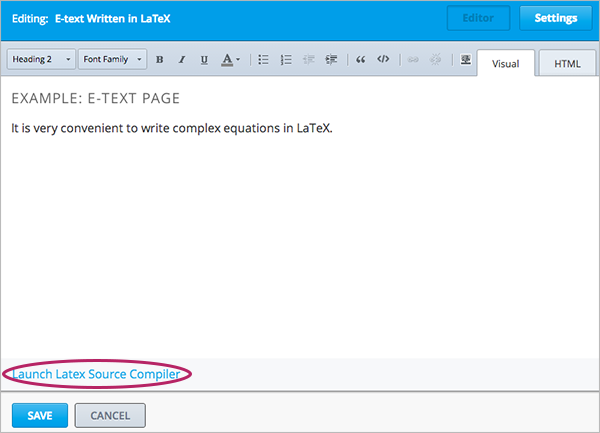
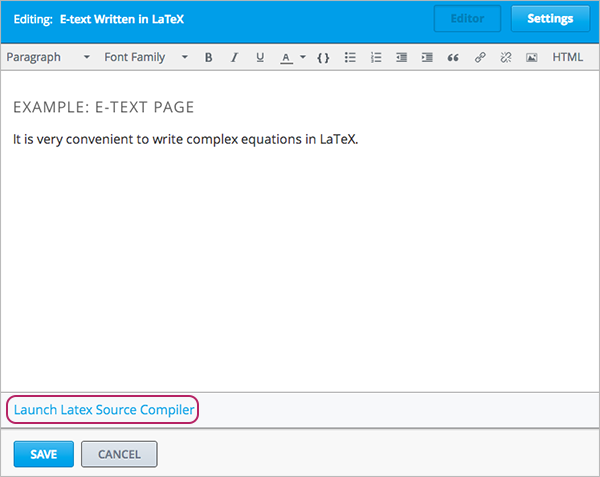
Documentation for HTML editor upgrade
STUD-1428

diff --git a/docs/en_us/course_authors/source/creating_content/create_html_component.rst b/docs/en_us/course_authors/source/creating_content/create_html_component.rst
@@ -9,11 +9,11 @@ Working with HTML Components
 HTML Component Overview
 ***********************
 
-HTML components are the most basic building blocks of your course. You use HTML components to add and format text, links, images, and more. 
+HTML components are the basic building blocks of your course content. You use HTML components to add and format text, links, images, and more. 
 
 For more information, see the following topics:
 
-* :ref:`The User Interface`
+* :ref:`The HTML Editor`
 * :ref:`Create an HTML Component`
 * :ref:`Add a Link in an HTML Component`
 * :ref:`Add an Image to an HTML Component`
@@ -23,48 +23,60 @@ For more information, see the following topics:
 
 To add an instant hangout to an HTML component, see :ref:`Using an Instant Hangout in Your Course`.
 
-.. _The User Interface:
+.. _The HTML Editor:
 
 *****************************************
-The HTML Component User Interface
+The HTML Component Editor
 *****************************************
 
-When you create a new HTML component, you work with the HTML component editor. The editor has two views: **Visual view** and **HTML view.** To switch between Visual view and HTML view, click the tab in the upper-right corner of the component editor.
+When you create a new HTML component, you work with the HTML editor:
 
-.. image:: ../Images/HTMLEditorTabs.png
- :alt: Image of the HTML component editor, with the Visual and HTML tabs circled
+.. image:: ../Images/HTMLEditor.png
+ :alt: Image of the HTML component editor
 
-- **Visual view** provides a “what you see is what you get” (WYSIWYG) editor that allows you to format text by clicking the formatting buttons at the top of the editor. By default, every HTML component opens in Visual view.
+The editor provides a “what you see is what you get” (WYSIWYG) interface that allows you to format text by clicking the formatting buttons at the top of the editor. 
 
-  Visual view includes the following formatting buttons.
+.. note:: The editor attempts to ensure the underlying HTML code is valid; for example, if you do not close a div tag, it inserts one at the end of the paragraph. You can see this by opening the HTML code editor, as described below.
 
-  .. image:: ../Images/HTML_VisualView_Toolbar.png
-    :alt: Image of the HTML visual editor, with callouts for formatting buttons
+The following image shows call-outs for the editing options and is followed by descriptions.
 
-  #. Select a formatting style, such as heading 1, heading 2, or paragraph.
-  #. Format text in bold.
-  #. Format text in italics.
-  #. Underline text.
-  #. Create a bulleted list.
-  #. Create a numbered list.
-  #. Decrease the indent.
-  #. Indent text.
-  #. Format text as a blockquote.
-  #. Format text as code (i.e., in Courier font).
-  #. Create a link.
-  #. Delete the current link.
+.. image:: ../Images/HTML_VisualView_Toolbar.png
+  :alt: Image of the HTML editor, with call-outs for formatting buttons
 
-  Visual view shows your content the way it will appear in the LMS. The following is the LMS rendition of the HTML component above.
+#. Choose a formatting style for the selected paragraph, such as heading 1, heading 2, or paragraph.
+#. Choose a font family for selected text, such as Arial, Courier New, or Times New Roman.
+#. Format selected text in bold.
+#. Format selected text in italics.
+#. Underline selected text.
+#. Apply a color to the selected text.
+#. Format selected text as code.
+#. Create a bulleted list.
+#. Create a numbered list.
+#. Decrease and increased the indentation of the selected paragraph.
+#. Format the selected paragraph as a blockquote.
+#. Create a link from the selected text. See :ref:`Add a Link in an HTML Component`.
+#. Delete the current link.
+#. Insert an image at the cursor. See :ref:`Add an Image to an HTML Component`.
+#. Work with HTML source code, described below.
 
-  .. image:: ../Images/HTMLComponent_VisualView_LMS.png
-   :alt: Image of the visual view of the HTML component
 
-- **HTML view** allows you to edit HTML code directly.
+.. _Work with HTML code:
 
-  .. image:: ../Images/HTML_HTMLView.png
-   :alt: Image of the HTML code view of the HTML component
+============================
+Work with HTML code
+============================
 
-  .. note:: If you're in HTML view, you can always switch to Visual view to make sure your content looks the way you expect. For example, we recommend that you do this if you add an image or a link to an HTML component.
+To work with HTML source code for the component, click **HTML**  in the editor toolbar. The HTML source code editor opens:
+
+.. image:: ../Images/HTML_source_code.png
+ :alt: Image of the HTML source code editor
+
+Edit the HTML code as needed.  
+
+Click **OK** to apply your changes to the HTML editor and close the source code.
+
+.. warning:: Clicking **OK** in the source code editor does not save your changes to the HTML component.  You return to the component editor, where your changes are applied.  You must click **Save** to save your changes and close the component. If you click **Cancel**, the changes you made in the HTML source code are lost.
+
 
 .. _Create an HTML Component:
 
@@ -88,14 +100,14 @@ To create an HTML component:
   .. image:: ../Images/HTMLComponent_Edit.png
    :alt: Image of an empty HTML component
 
-3. In the empty component, click **Edit**.
+3. In the component, click **Edit**.
 
-   The HTML component editor opens in Visual view.
+   The HTML component editor opens.
 
-  .. image:: ../Images/HTMLEditor.png
-   :alt: Image of the HTML component Visual view
+  .. image:: ../Images/HTMLEditor_empty.png
+   :alt: Image of the HTML component editor
 
-4. Enter the text and formatting that you want, either by using the formatting buttons in Visual view or by manually adding HTML tags in HTML view.
+4. Enter and format your content. You can :ref:`Work with HTML code` if needed.
 
 5. Enter a display name (the name that you want students to see). To do this, click **Settings** in the upper-right corner of the component editor, and then enter text in the **Display Name** field.
 
@@ -103,7 +115,7 @@ To create an HTML component:
 
 6. Click **Save** to save the HTML component.
 
-You can also add links and images to HTML components. Or, you can import LaTeX code. For more information, see:
+You can also:
 
 * :ref:`Add a Link in an HTML Component`
 * :ref:`Add an Image to an HTML Component`
@@ -115,12 +127,12 @@ You can also add links and images to HTML components. Or, you can import LaTeX c
 Add a Link in an HTML Component
 ***********************************
 
-To add a link to a website, course unit, or file in an HTML component, you'll work with the **Insert/Edit Link** dialog box.
+To add a link to a website, course unit, or file in an HTML component, you'll work with the **Insert link** dialog box.
 
 .. image:: ../Images/HTML_Insert-EditLink_DBox.png
- :alt: Image of the Insert/Edit Link dialog box
+ :alt: Image of the Insert link dialog box
 
-For more information, see:
+You can:
 
 * :ref:`Add a Link to a Website`
 * :ref:`Add a Link to a Course Unit`
@@ -138,14 +150,14 @@ To add a link to a website:
 
 #. Click the link icon in the toolbar.
 
-#. In the **Insert/Edit Link** dialog box, enter the URL of the website that you want in the **Link URL** field.
+#. In the **Insert link** dialog box, enter the URL of the website that you want in the **URL** field.
 
    .. image:: ../Images/HTML_Insert-EditLink_Website.png
-    :alt: Image of the Insert/Edit Link dialog box
+    :alt: Image of the Insert link dialog box
 
-#. If you want the link to open in a new window, click the drop-down arrow next to the **Target** field, and then select **Open Link in a New Window**. If not, you can leave the default value.
+#. If you want the link to open in a new window, click the drop-down arrow next to the **Target** field, and then select **New Window**. If not, you can leave the default value.
 
-#. Click **Insert**.
+#. Click **OK**.
 
 #. Save the HTML component and test the link.
 
@@ -169,7 +181,7 @@ You can add a link to a course unit in an HTML component.
 
 #. Click the link icon in the toolbar.
 
-#. In the **Insert/Edit Link** dialog box, enter the following in the **Link URL** field.
+#. In the **Insert link** dialog box, enter the following in the **URL** field.
 
    ``/jump_to_id/<unit identifier>``
 
@@ -177,10 +189,10 @@ You can add a link to a course unit in an HTML component.
    identifier that you copied in step 2, and make sure to include both forward slashes (/).
 
    .. image:: ../Images/HTML_Insert-EditLink_CourseUnit.png
-    :alt: Image of the Inser/Edit Link dialog box with a link to a unit identifier
+    :alt: Image of the Insert link dialog box with a link to a unit identifier
 
 #. If you want the link to open in a new window, click the drop-down arrow next to
-   the **Target** field, and then select **Open Link in a New Window**. If not, you can leave the default value.
+   the **Target** field, and then select **New Window**. If not, you can leave the default value.
 
 #. Click **Insert**.
 
@@ -202,30 +214,25 @@ You can add a link in an HTML component to any file you've uploaded for the cour
   
   .. note:: You must use the **Embed URL** to link to the file, not the **External URL**.
 
-
-
 2. Select the text that you want to make into the link.
 
 #. Click the link icon in the toolbar.
 
-#. In the **Insert/Edit Link** dialog box, enter the following in the **Link URL** field.
+#. In the **Insert link** dialog box, enter the following in the **URL** field.
 
    ``/static/FileName.type``
 
    Make sure to include both forward slashes (/).
 
    .. image:: ../Images/HTML_Insert-EditLink_File.png
-    :alt: Image of the Inser/Edit Link dialog box with a link to a file
+    :alt: Image of the Insert link dialog box with a link to a file
 
 #. If you want the link to open in a new window, click the drop-down arrow next to
-   the **Target** field, and then select **Open Link in a New Window**. If not, you can leave the default value.
+   the **Target** field, and then select **New Window**. If not, you can leave the default value.
 
 #. Click **Insert**.
 
 #. Save the HTML component and test the link.
-
-.. note::  When you add the file link in the format ``/static/FileName.type``, then later reopen the **Insert/Edit Link** dialog box, you see that the link changes to ``/c4x/edX/Course-name/asset/FileName.type``. This URL is OK and you do not need to change it. In the HTML view, the link appears as ``/static/FileName.type``.
-
 
 .. _Add an Image to an HTML Component:
 
@@ -235,7 +242,7 @@ Add an Image to an HTML Component
 
 You can add any image that you have uploaded for the course to an HTML component. For more information about uploading images, see :ref:`Add Files to a Course`.
 
-.. note:: Review :ref:`Best Practices for Describing Images` when you add images to HTML components.
+.. note:: Review :ref:`Best Practices for Describing Images` before you add images to HTML components.
 
 To add an image, you'll need the URL of the image that you uploaded to the course. You'll then create a link to the image in the HTML component.
 
@@ -248,27 +255,29 @@ To add an image, you'll need the URL of the image that you uploaded to the cours
 
 2. Click the image icon in the toolbar.
 
-#. In the **Insert/Edit Image** dialog box, enter the following in the **Image URL** field.
+#. In the **Insert image** dialog box, enter the following in the **Source** field.
 
    ``/static/FileName.type``
 
    Make sure to include both forward slashes (/).
 
    .. image:: ../Images/HTML_Insert-Edit_Image.png
-    :alt: Image of the Insert/Edit Image dialog box with a link to a file
+    :alt: Image of the Insert image dialog box with a reference to a file
 
-4. Enter alternative text in the Image Description field. See :ref:`Best Practices for Describing Images` for more information.
+4. Enter alternative text in the **Image description** field. This text becomes the value of the ``alt`` attribute in HTML and is required for your course to be fully accessible. See :ref:`Best Practices for Describing Images` for more information.
 
-#. As needed, in the **Insert/Edit Image** dialog box, customize the image alignment, dimensions, border, and vertical and horizontal space.
+#. As needed, customize the image dimensions. Keep **Constrain proportions** checked to ensure the image keeps the same width and height proportions.
 
-#. Click **Insert**.
+#. To change the spacing and border of the image, click the **Advanced** tab. 
+
+   .. image:: ../Images/HTML_Insert-Edit_Image_Advanced.png
+    :alt: Image of the Insert image dialog box Advanced tab
+
+#. Enter the **Vertical space**, **Horizontal space**, and **Border** as needed. The values you enter are automatically added to the **Style** field.
+
+#. Click **OK** to insert the image in the HTML component.
 
 #. Save the HTML component and test the image.
-
-.. note::  When you add the image URL in the format ``/static/FileName.type``, then later reopen the **Insert/Edit Image** dialog box, you see that the URL changes to ``/c4x/edX/Course-name/asset/FileName.type``. This URL is OK and you do not need to change it. In the HTML view, the URL appears as ``/static/FileName.type``.
-
-   ``<p><img src="/static/GreatLakes.png" alt="Map of the Great Lakes" /></p>``
-
 
 
 .. _Import LaTeX Code:
@@ -302,7 +311,7 @@ To create an HTML component that contains LaTeX code:
   .. image:: ../Images/latex_component.png
    :alt: Image of the HTML component editor with the Latex compiler.
 
-4. In the componenent editor, click **Launch Latex Source Compiler**. The Latex editor opens.
+4. In the component editor, click **Launch Latex Source Compiler**. The Latex editor opens.
 
    .. image:: ../Images/HTML_LaTeXEditor.png
     :alt: Image of the HTML component editor with the Latex compiler.
@@ -311,7 +320,7 @@ To create an HTML component that contains LaTeX code:
 
 #. When you have written or uploaded the Latex code you need, click **Save & Compile to edX XML** in the lower-left corner.
 
-   The component editor closes, and the unit page opens. You can see the way your LaTeX content looks.
+   The component editor closes. You can see the way your LaTeX content looks.
 
    .. image:: ../Images/HTML_LaTeX_CompEditor.png
     :alt: Image of the LaTeX component

diff --git a/docs/en_us/course_authors/source/change_log.rst b/docs/en_us/course_authors/source/change_log.rst
@@ -14,6 +14,15 @@ Change Log
      - Expanded the :ref:`Grades` section to include a topic on interpreting the Student Answer Distribution report. 
    * - 4/7/14
      - Expanded the :ref:`Course Data`, :ref:`Enrollment`, and :ref:`Course_Staffing` sections.
+     - Change  
+   * - 4/7/14
+     - Expanded the :ref:`Course Data`, :ref:`Enrollment`, and :ref:`Course_Staffing` sections.
+   * - 04/08/14
+     - Updated the chapter :ref:`Working with HTML Components` to reflect the
+       new HTML editor. 
+   * - 04/07/14
+     - Expanded the :ref:`Course Data`, :ref:`Enrollment`, and
+       :ref:`Course_Staffing` sections.
    * - 04/03/14
      - Updated the :ref:`Adding Pages to a Course` chapter to reflect ability to
        :ref:`Show or Hide the Course Wiki Page`.

diff --git a/docs/en_us/course_authors/source/getting_started/glossary.rst b/docs/en_us/course_authors/source/getting_started/glossary.rst
@@ -249,14 +249,6 @@ H
   See :ref:`Working with HTML Components` for more information.
 
 
-.. _HTML View:
- 
-**HTML View**
-
-  The view in the HTML component editor allows you to enter HTML code directly.
-
-  See :ref:`The User Interface` for more information.
-
 
 .. _I:
 
@@ -530,15 +522,6 @@ V
   A component that you can use to add recorded videos to your course. 
 
   See :ref:`Working with Video Components` for more information.
-
-
-.. _Visual View:
- 
-**Visual View**
-
-  The view in the HTML component editor that allows you format text without using HTML code.
-
-  See :ref:`The User Interface` for more information.
 
 
 .. _W:

diff --git a/docs/en_us/course_authors/source/creating_content/pages.rst b/docs/en_us/course_authors/source/creating_content/pages.rst
@@ -66,7 +66,7 @@ Add a Page
   .. image:: ../Images/pages_editor.png
    :alt: Image of the Page editor
 
-4. Enter text for your page. See :ref:`The User Interface` for more information about using the editor.
+4. Enter text for your page. See :ref:`The HTML Editor` for more information about using the editor.
 #. Click **Settings** to edit the **Display Name**. The display name is the name of the page visible to students in the course.
 #. Click **Save**. 
 
